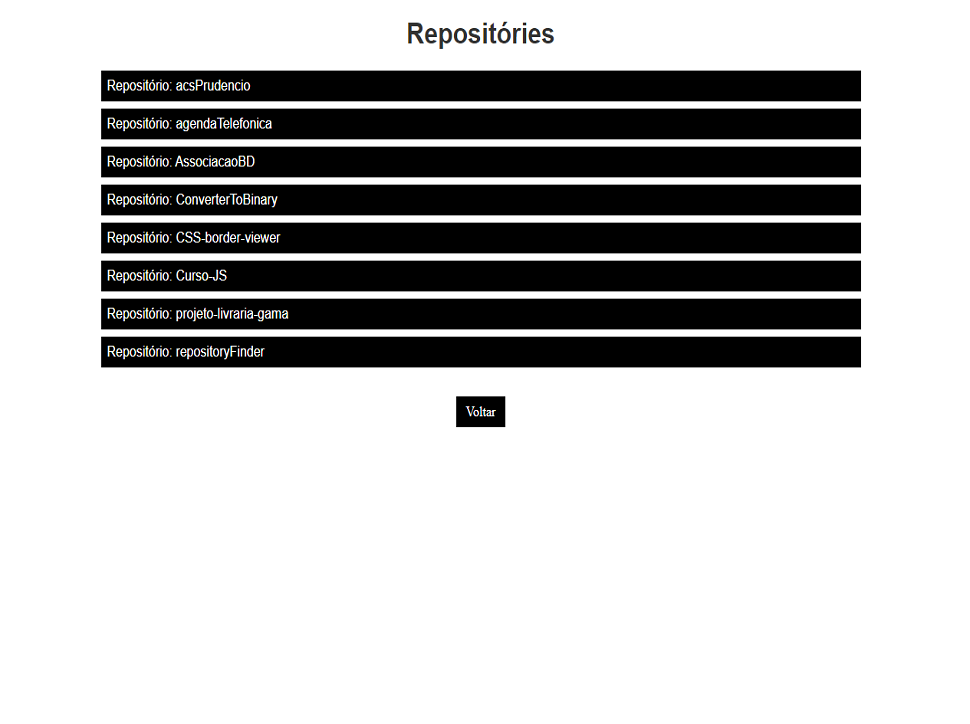
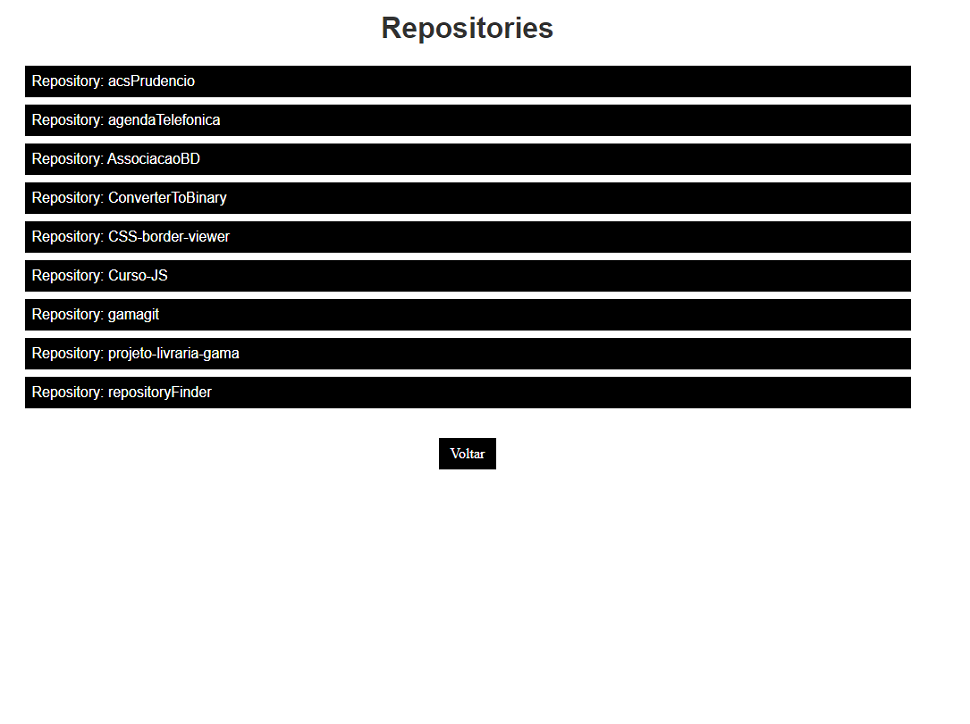
att README

Changed region(s): [[0.0, 0.0912, 0.9588, 0.6685], [0.3711, 0.0304, 0.5876, 0.0608]]

diff --git a/src/pages/Repositories/index.js b/src/pages/Repositories/index.js
@@ -20,11 +20,11 @@ export default function Repositories() {
 
     return (
         <S.Container>
-            <S.Title>Repositóries</S.Title>
+            <S.Title>Repositories</S.Title>
             <S.List>
                 {repositories.map(repository => {
                     return (
-                        <S.ListItem to="">Repositório: {repository}</S.ListItem>
+                        <S.ListItem to="">Repository: {repository}</S.ListItem>
                     )
                 })}
             </S.List>

diff --git a/README.md b/README.md
@@ -7,12 +7,19 @@ O objeto dessa aplicação é buscar todos os repositórios de um usuário dentr
 Para usa-la é bem simples, basta inserir o nome do usuário no campo indicado e clicar no botão de pesquisar.
 
 
-![](/assets/home.png)
-![](/assets/busca.png)
+![](./src/assets/home.PNG)
+![](./src/assets/busca.PNG)
 
 ## Usando a aplicação
 Para usá-la, basta executar os seguintes comandos na raíz do projeto:
 ```
 npm install
 npm start
+```
+
+ou
+
+```
+yarn install
+yarn start
 ```
